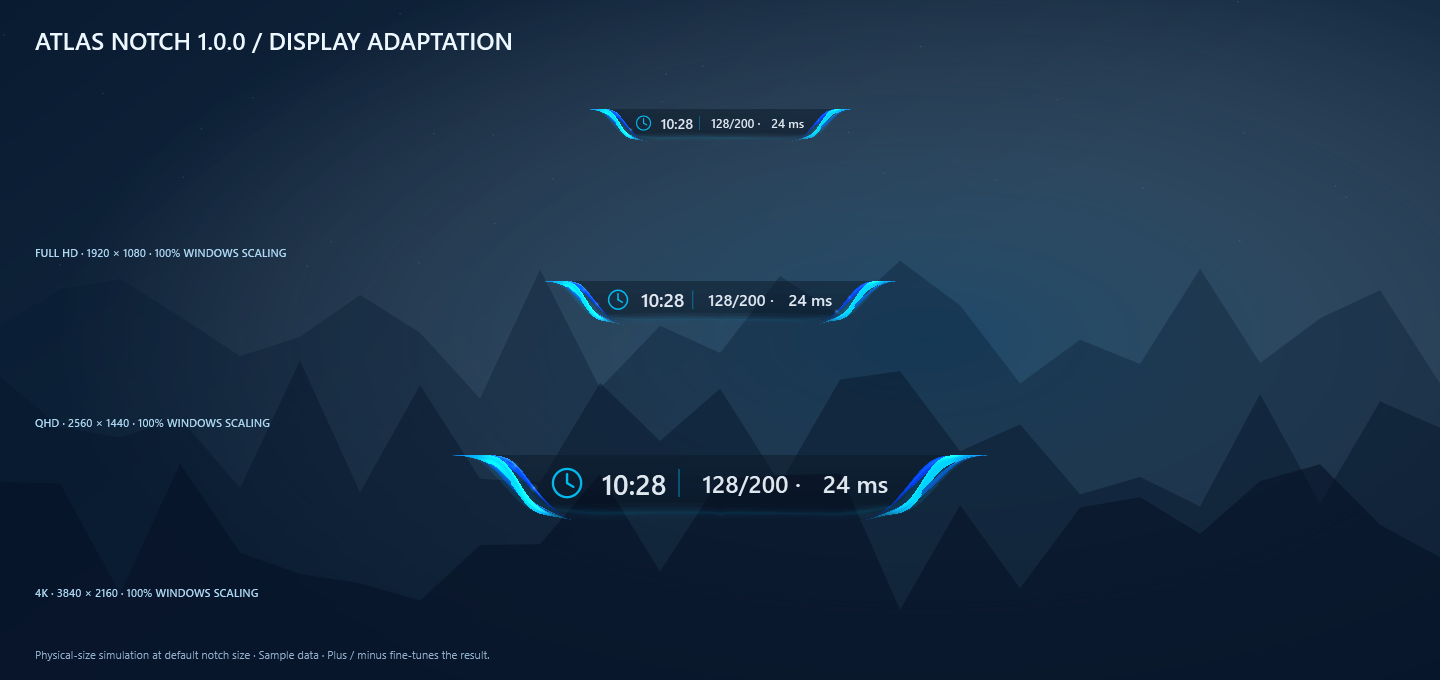
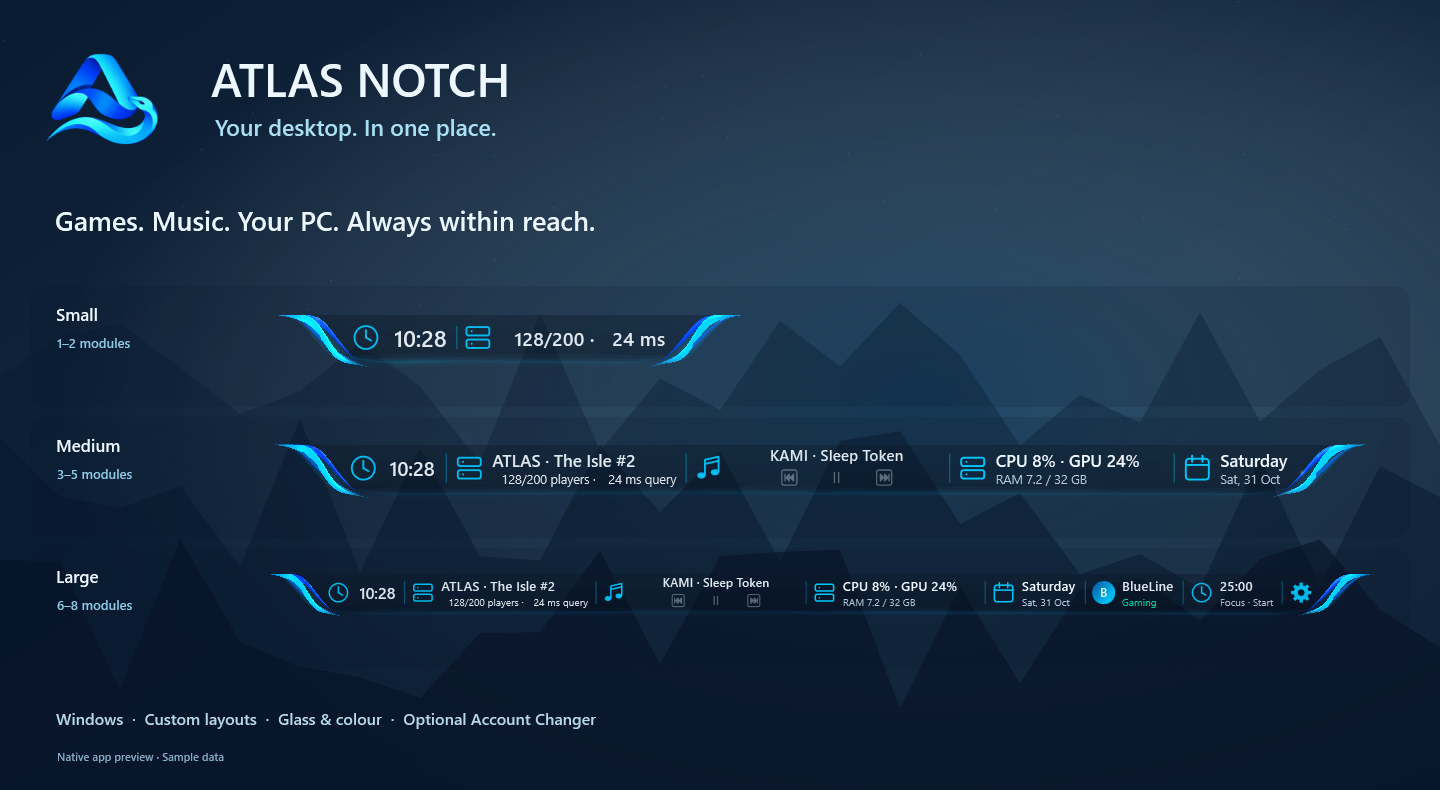
Introduce Notch with native product imagery and optional Account Changer

diff --git a/README.md b/README.md
@@ -1,56 +1,60 @@
-<p align="center"><img src="media/notch-preview.png" alt="ATLAS Notch — native glass bar at different display scales" width="1100"></p>
-
 # ATLAS Notch
 
-**Your games, music and essentials — one glance away.**
+### Your desktop. In one place.
 
-A compact Windows bar with flowing blue and cyan ribbons, a glass surface and layouts that grow with you. Keep the information you want at the screen edge, without filling your desktop with separate widgets.
+ATLAS Notch is a compact, customisable bar for Windows that brings your games, music and everyday information to the edge of your screen. A glance shows what matters. A click opens more space.
 
-<p align="center"><img src="media/notch-motion.gif" alt="Native ATLAS Notch animation preview with all three sizes" width="1000"></p>
+Flowing blue and cyan ribbons, a glass surface, moving highlights and subtle glints make it feel alive — while your desktop stays yours.
 
-## Make the space yours
+<p align="center"><img src="media/notch-preview.png" alt="ATLAS Notch — actual Small, Medium and Large layouts" width="1100"></p>
 
-- **Three independent layouts.** Small: 1–2 modules. Medium: 3–5. Large: 6–8. Choose the content, reorder modules and keep a different arrangement for each size.
-- **Game and server information.** Recognise supported Steam and other launcher games. Show the exact server's player count and measured latency when the game and server expose enough information. If server details are unavailable, keep the game name visible.
-- **Music within reach.** See the current title and artist above accessible playback controls, using Windows media sessions.
-- **CPU, GPU and RAM.** Keep an eye on usage with stable numeric spacing.
-- **Your everyday essentials.** Local time, 12/24-hour formats, date, calendar, volume and a focus timer.
-- **Local playtime statistics.** Browse time spent in games and on identified servers, sort the results and reset them when you choose.
-- **Optional Atlas Account Changer integration.** With a compatible AAC Bridge v4, view shared groups, display names and avatars, request a switch and see its progress. AAC performs and confirms the switch. Login names and credentials are not supplied to Notch.
+## Small when you want it. More when you need it.
 
-<p align="center"><img src="media/modules.png" alt="Choose modules for each Notch size in the settings" width="1000"></p>
+Keep just your essentials visible, or expand for music controls, game information and PC stats. Build a different layout for each size and arrange your modules in the order that feels right.
 
-## Built to feel at home
+**Small · 1–2 modules &nbsp; | &nbsp; Medium · 3–5 modules &nbsp; | &nbsp; Large · 6–8 modules**
 
-Customise colour, transparency and motion. Dock at the top or bottom, choose a display and position, enable Windows startup, or let Notch slide away while no game is running. Flowing ribbon strands, changing highlights and subtle glints keep the original blue/cyan look alive.
+<p align="center"><img src="media/notch-motion.gif" alt="The real Notch with continuously moving ribbon strands in all three sizes" width="1100"></p>
 
-Optional player-count trends and separate player/ping rise warnings let you choose what matters. Warnings appear briefly without changing the bar's size. Settings save automatically.
+## What can your Notch do?
 
-<p align="center"><img src="media/statistics.png" alt="ATLAS Notch local playtime statistics with sample game sessions" width="1000"></p>
+- **Stay with your game.** See supported Steam and other launcher games, with player count and measured latency when their server information is available. When only the game is identified, its name stays visible.
+- **Keep your music close.** See the track and artist, then pause, play or skip with controls directly in the bar. Notch uses your player's Windows media session.
+- **Watch your PC.** See CPU, GPU and RAM usage with steady spacing that keeps the bar calm as the numbers change.
+- **Keep the essentials handy.** Add local time, a 12/24-hour clock, date, calendar, volume or a focus timer.
+- **See where your time goes.** Browse your local game and server playtime, sort the results and reset your statistics whenever you want.
+- **Choose your signals.** Enable player-count trends or separate player/ping rise warnings. Brief red indicators draw attention without changing the bar's size.
+
+<p align="center"><img src="media/statistics.png" alt="Local game and server playtime statistics in ATLAS Notch — sample data" width="970"></p>
+
+## Make it feel like your desktop
+
+Choose your colours and glass transparency. Place Notch at the top or bottom of the display, adjust its position and choose your preferred size. Set it to start with Windows, or slide out of view while no game is running and return when a game is detected.
+
+Module changes save automatically. Notch also handles official updates, keeping your saved settings and playtime with you.
+
+<p align="center"><img src="media/modules.png" alt="Choose and arrange the modules you want in each Notch layout" width="970"></p>
 
 ## Get ATLAS Notch
 
-**USD $1.99 · one-time purchase.** The first-install package will be available through our sales page.
+**USD $1.99 · one-time purchase**
 
-<!-- PURCHASE_URL: intentionally empty until the Fourthwall product link is supplied. -->
+**Purchase link coming soon.**
 
-Already own Notch? This repository is the official update channel. It contains product information and **update-only packages**, not the first-install sales package or application source code.
+<!-- PURCHASE_URL: leave empty; insert the user's purchase/payment link here when supplied. -->
 
-## Updates that stay simple
+## Optional: Atlas Account Changer
 
-From version 1.0, Notch checks the official channel automatically, verifies the publisher signature and downloaded file, then closes, updates and restarts. Your saved settings and playtime remain. No GitHub account or release-address entry is needed.
+Want to switch Steam accounts from your Notch? Add **[Atlas Account Changer →](https://github.com/BluelineDE/atlas-account-changer)**, a separate optional ATLAS app.
 
-**Moving from the beta?** Existing betas were built before this channel was configured. Run the [1.0 update package](https://github.com/BluelineDE/atlas-notch/releases) once with Notch installed. Later updates are handled by Notch. An update-only package refuses a missing or invalid main installation.
+With a compatible AAC Bridge v4, Notch shows your shared account groups, display names and avatars. Choose an account and see the switch progress beside it; AAC performs and confirms the switch. Login names and credentials stay with AAC. You can also use Notch independently.
 
-Release 1.0 starts without patch notes. Later updates can show their changes once after updating.
+## A few practical details
 
-## Good to know
+Windows x64. Music controls depend on the media session exposed by your player. Exact server details depend on the game, the server's reachable status service and network permission; status-query or ICMP latency can differ from the game's own ping. Private Minecraft Java servers can supply status/player counts when their status service is reachable and enabled.
 
-- Windows x64. Music depends on the media session exposed by your player.
-- Exact server information depends on the game, server protocol, reachable status endpoint and network permission. Private Minecraft Java servers can provide status/player counts when their status service is reachable and enabled; universal detection or access to protected servers is not promised.
-- Query/ICMP latency is a measured network/status round trip and can differ from the game's own ping.
-- Some server detection uses the optional protected ATLAS network service, enabled with one Windows administrator approval. Notch does not need Steam passwords.
-- Settings and playtime are stored locally, encrypted for the current Windows user. Backup retention is limited to five encrypted backups.
-- Screenshots and animations show the native app using clearly isolated sample data.
+Some automatic server detection uses the protected ATLAS network service, enabled with one Windows administrator approval. Settings and playtime are stored locally, encrypted for the current Windows user, with up to five encrypted backups.
 
-Made by **BlueLineDE**. ATLAS Notch is proprietary software; this repository does not grant an application source-code licence.
+Images and animations show native Notch components with sample data.
+
+Made by **BlueLineDE**.
